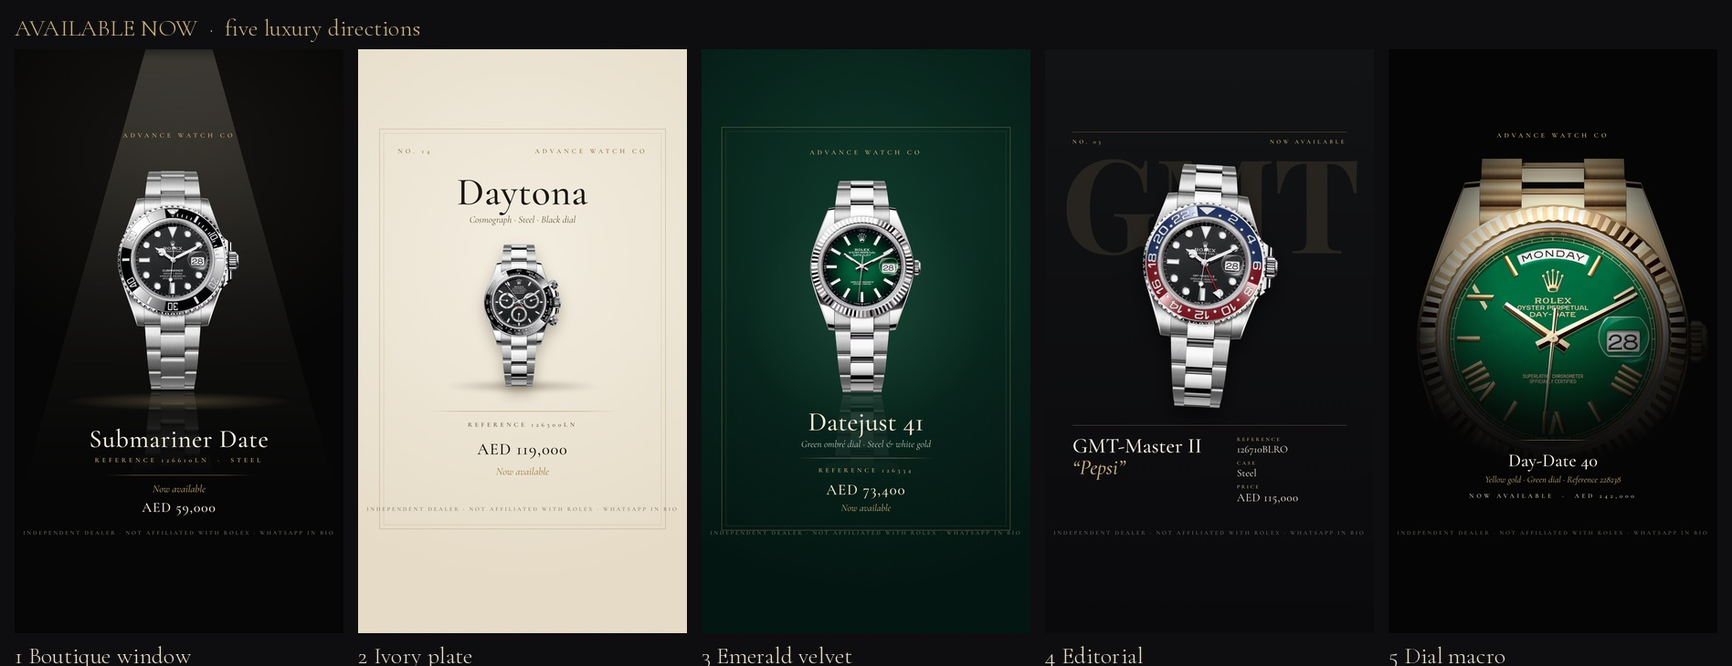
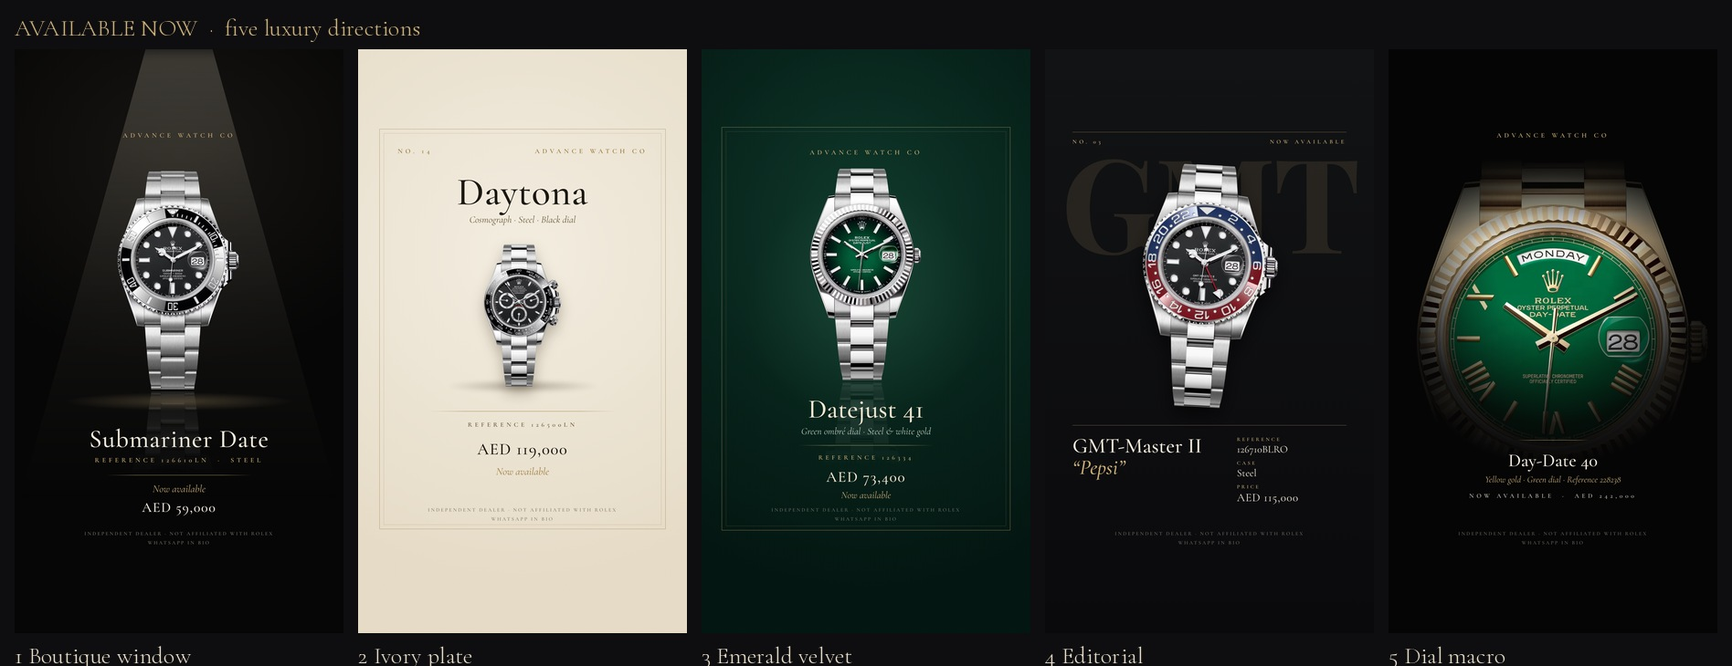
Luxury story designs round 2: 5 available now, 4 knowledge
Claude-Session: https://claude.ai/code/session_0196sG434LsFacRR9je27wED

Changed region(s): [[0.4668, 0.2411, 0.529, 0.7836], [0.8402, 0.2411, 0.9647, 0.3616], [0.2801, 0.7534, 0.3112, 0.7836]]

diff --git a/stories/new-style-luxury/templates/available_3_emerald_velvet.html b/stories/new-style-luxury/templates/available_3_emerald_velvet.html
@@ -10,19 +10,19 @@ html,body{width:1080px;height:1920px;overflow:hidden;background:#000}
 .cap{font-family:'Corm',serif;text-transform:uppercase;letter-spacing:.42em;font-weight:600;font-size:22px}
 .gold{color:#cdb07a}.ink{color:#1c1812}
 .rule{position:absolute;height:1px;background:linear-gradient(90deg,transparent,#cdb07a 20%,#cdb07a 80%,transparent)}
-.tiny{position:absolute;left:0;right:0;text-align:center;font-size:19px;letter-spacing:.3em;text-transform:uppercase;font-weight:600}
+.tiny{position:absolute;left:0;right:0;text-align:center;font-size:17px;line-height:1.75;letter-spacing:.24em;text-transform:uppercase;font-weight:600}
 </style></head><body><div id='s' style="background:radial-gradient(1100px 1200px at 50% 30%,#0f3a2c,#06231a 55%,#031510)">
 <div class='a' style='inset:0;background:repeating-linear-gradient(90deg,rgba(255,255,255,.012) 0 2px,transparent 2px 5px)'></div>
 <div class='a' style='left:66px;right:66px;top:256px;bottom:338px;border:1px solid rgba(205,176,122,.75)'></div>
 <div class='a' style='left:80px;right:80px;top:270px;bottom:352px;border:1px solid rgba(205,176,122,.28)'></div>
 <div class='a c cap gold' style='top:326px'>Advance Watch Co</div>
-<div class='a' style='left:50%;top:430px;width:900px;height:900px;transform:translateX(-50%);background:radial-gradient(circle,rgba(70,150,110,.20),transparent 62%)'></div>
-<img class='a' src='../assets/dj.png' style='left:50%;top:430px;height:700px;transform:translateX(-50%);
+<div class='a' style='left:50%;top:390px;width:900px;height:900px;transform:translateX(-50%);background:radial-gradient(circle,rgba(70,150,110,.20),transparent 62%)'></div>
+<img class='a' src='../assets/dj.png' style='left:50%;top:390px;height:700px;transform:translateX(-50%);
  -webkit-box-reflect:below 4px linear-gradient(transparent 60%,rgba(255,255,255,.18))'>
-<div class='a c' style='top:1172px;font-size:88px;font-weight:500;color:#efe6d2'>Datejust 41</div>
-<div class='a c' style='top:1278px;font-size:32px;font-style:italic;color:#bcd0c2'>Green ombré dial · Steel &amp; white gold</div>
-<div class='rule' style='left:320px;width:440px;top:1344px'></div>
-<div class='a c cap gold' style='top:1372px;font-size:21px'>Reference 126334</div>
-<div class='a c' style='top:1418px;font-size:50px;font-weight:500;color:#efe6d2;letter-spacing:.06em'>AED 73,400</div>
-<div class='a c' style='top:1488px;font-size:32px;font-style:italic;color:#cdb07a'>Now available</div>
-<div class='tiny' style='top:1578px;color:rgba(239,230,210,.4)'>Independent dealer · Not affiliated with Rolex · WhatsApp in bio</div><div class='grain'></div></div></body></html>
+<div class='a c' style='top:1130px;font-size:88px;font-weight:500;color:#efe6d2'>Datejust 41</div>
+<div class='a c' style='top:1236px;font-size:32px;font-style:italic;color:#bcd0c2'>Green ombré dial · Steel &amp; white gold</div>
+<div class='rule' style='left:320px;width:440px;top:1302px'></div>
+<div class='a c cap gold' style='top:1330px;font-size:21px'>Reference 126334</div>
+<div class='a c' style='top:1376px;font-size:50px;font-weight:500;color:#efe6d2;letter-spacing:.06em'>AED 73,400</div>
+<div class='a c' style='top:1446px;font-size:32px;font-style:italic;color:#cdb07a'>Now available</div>
+<div class='tiny' style='top:1500px;color:rgba(239,230,210,.4)'>Independent dealer · Not affiliated with Rolex<br>WhatsApp in bio</div><div class='grain'></div></div></body></html>

diff --git a/stories/new-style-luxury/templates/knowledge_3_five_years.html b/stories/new-style-luxury/templates/knowledge_3_five_years.html
@@ -10,11 +10,11 @@ html,body{width:1080px;height:1920px;overflow:hidden;background:#000}
 .cap{font-family:'Corm',serif;text-transform:uppercase;letter-spacing:.42em;font-weight:600;font-size:22px}
 .gold{color:#cdb07a}.ink{color:#1c1812}
 .rule{position:absolute;height:1px;background:linear-gradient(90deg,transparent,#cdb07a 20%,#cdb07a 80%,transparent)}
-.tiny{position:absolute;left:0;right:0;text-align:center;font-size:19px;letter-spacing:.3em;text-transform:uppercase;font-weight:600}
+.tiny{position:absolute;left:0;right:0;text-align:center;font-size:17px;line-height:1.75;letter-spacing:.24em;text-transform:uppercase;font-weight:600}
 </style></head><body><div id='s' style="background:radial-gradient(1000px 1000px at 50% 36%,#1b1913,#08080a 72%)">
 <div class='a c cap gold' style='top:300px'>The Rolex guarantee</div>
-<div class='a c' style='top:360px;font-size:760px;line-height:1;font-weight:300;font-family:Corm,serif;color:transparent;-webkit-text-stroke:2.5px #cdb07a;letter-spacing:-.02em'>5</div>
-<div class='a c' style='top:1130px;font-size:76px;font-weight:500;color:#f2eadb;letter-spacing:.34em'>YEARS</div>
-<div class='rule' style='left:420px;width:240px;top:1240px'></div>
-<div class='a' style='left:150px;right:150px;top:1280px;text-align:center;font-size:36px;line-height:1.35;color:rgba(242,234,219,.82)'>It begins on the date printed on the card, the date of the sale. A recent date means most of it is still ahead of you. <span style='font-style:italic;color:#cdb07a'>Check it before you pay.</span></div>
-<div class='tiny' style='top:1578px;color:rgba(242,234,219,.4)'>Independent dealer · Not affiliated with Rolex · WhatsApp in bio</div><div class='grain'></div></div></body></html>
+<div class='a c' style='top:330px;font-size:690px;line-height:1;font-weight:300;font-family:Corm,serif;color:transparent;-webkit-text-stroke:2.5px #cdb07a;letter-spacing:-.02em'>5</div>
+<div class='a c' style='top:1150px;font-size:76px;font-weight:500;color:#f2eadb;letter-spacing:.34em'>YEARS</div>
+<div class='rule' style='left:420px;width:240px;top:1260px'></div>
+<div class='a' style='left:150px;right:150px;top:1300px;text-align:center;font-size:36px;line-height:1.35;color:rgba(242,234,219,.82)'>It begins on the date printed on the card, the date of the sale. A recent date means most of it is still ahead of you. <span style='font-style:italic;color:#cdb07a'>Check it before you pay.</span></div>
+<div class='tiny' style='top:1578px;color:rgba(242,234,219,.4)'>Independent dealer · Not affiliated with Rolex<br>WhatsApp in bio</div><div class='grain'></div></div></body></html>

diff --git a/stories/new-style-luxury/templates/available_4_editorial.html b/stories/new-style-luxury/templates/available_4_editorial.html
@@ -10,7 +10,7 @@ html,body{width:1080px;height:1920px;overflow:hidden;background:#000}
 .cap{font-family:'Corm',serif;text-transform:uppercase;letter-spacing:.42em;font-weight:600;font-size:22px}
 .gold{color:#cdb07a}.ink{color:#1c1812}
 .rule{position:absolute;height:1px;background:linear-gradient(90deg,transparent,#cdb07a 20%,#cdb07a 80%,transparent)}
-.tiny{position:absolute;left:0;right:0;text-align:center;font-size:19px;letter-spacing:.3em;text-transform:uppercase;font-weight:600}
+.tiny{position:absolute;left:0;right:0;text-align:center;font-size:17px;line-height:1.75;letter-spacing:.24em;text-transform:uppercase;font-weight:600}
 </style></head><body><div id='s' style="background:linear-gradient(180deg,#121315,#0a0a0c)">
 <div class='a' style='left:0;right:0;top:300px;text-align:center;font-family:Play,serif;font-size:430px;font-weight:700;line-height:.9;color:rgba(205,176,122,.13);letter-spacing:-.02em'>GMT</div>
 <div class='a' style='left:0;right:0;top:640px;text-align:center;font-family:Play,serif;font-size:300px;font-weight:700;line-height:.9;color:rgba(205,176,122,.08);letter-spacing:.02em'>II</div>
@@ -24,4 +24,4 @@ html,body{width:1080px;height:1920px;overflow:hidden;background:#000}
  <div class='cap gold' style='font-size:17px;letter-spacing:.34em'>Reference</div><div style='font-size:34px;color:#f2eadb;margin:2px 0 14px'>126710BLRO</div>
  <div class='cap gold' style='font-size:17px;letter-spacing:.34em'>Case</div><div style='font-size:34px;color:#f2eadb;margin:2px 0 14px'>Steel</div>
  <div class='cap gold' style='font-size:17px;letter-spacing:.34em'>Price</div><div style='font-size:38px;color:#f2eadb;margin-top:2px;letter-spacing:.04em'>AED 115,000</div></div>
-<div class='tiny' style='top:1578px;color:rgba(242,234,219,.4)'>Independent dealer · Not affiliated with Rolex · WhatsApp in bio</div><div class='grain'></div></div></body></html>
+<div class='tiny' style='top:1578px;color:rgba(242,234,219,.4)'>Independent dealer · Not affiliated with Rolex<br>WhatsApp in bio</div><div class='grain'></div></div></body></html>

diff --git a/stories/new-style-luxury/templates/knowledge_2_three_checks.html b/stories/new-style-luxury/templates/knowledge_2_three_checks.html
@@ -10,7 +10,7 @@ html,body{width:1080px;height:1920px;overflow:hidden;background:#000}
 .cap{font-family:'Corm',serif;text-transform:uppercase;letter-spacing:.42em;font-weight:600;font-size:22px}
 .gold{color:#cdb07a}.ink{color:#1c1812}
 .rule{position:absolute;height:1px;background:linear-gradient(90deg,transparent,#cdb07a 20%,#cdb07a 80%,transparent)}
-.tiny{position:absolute;left:0;right:0;text-align:center;font-size:19px;letter-spacing:.3em;text-transform:uppercase;font-weight:600}
+.tiny{position:absolute;left:0;right:0;text-align:center;font-size:17px;line-height:1.75;letter-spacing:.24em;text-transform:uppercase;font-weight:600}
 </style></head><body><div id='s' style="background:linear-gradient(180deg,#0f1012,#070708)"><div class='a c cap gold' style='top:300px'>Three checks before you pay</div>
 <div class='a c' style='top:372px;font-size:84px;font-weight:500;color:#f2eadb'>For any Rolex</div>
 <div class='rule' style='left:110px;right:110px;top:500px'></div><div class='a' style='left:110px;top:560px;width:120px;font-size:104px;font-weight:300;color:#cdb07a;font-family:Corm,serif;line-height:1'>I</div>
@@ -21,4 +21,4 @@ html,body{width:1080px;height:1920px;overflow:hidden;background:#000}
 <div class='a' style='left:270px;right:100px;top:1118px;font-size:46px;font-weight:500;color:#f2eadb;line-height:1.1'>A recent warranty date</div>
 <div class='a' style='left:270px;right:110px;top:1222px;font-size:30px;font-style:italic;color:rgba(242,234,219,.7);line-height:1.25'>a brand new watch should carry a recent one</div>
 <div class='a c' style='top:1430px;font-size:32px;font-style:italic;color:#cdb07a'>Save this for the day you buy.</div>
-<div class='tiny' style='top:1578px;color:rgba(242,234,219,.4)'>Advance Watch Co · WhatsApp in bio</div><div class='grain'></div></div></body></html>
+<div class='tiny' style='top:1578px;color:rgba(242,234,219,.4)'>Advance Watch Co<br>WhatsApp in bio</div><div class='grain'></div></div></body></html>

diff --git a/stories/new-style-luxury/templates/available_5_dial_macro.html b/stories/new-style-luxury/templates/available_5_dial_macro.html
@@ -10,13 +10,14 @@ html,body{width:1080px;height:1920px;overflow:hidden;background:#000}
 .cap{font-family:'Corm',serif;text-transform:uppercase;letter-spacing:.42em;font-weight:600;font-size:22px}
 .gold{color:#cdb07a}.ink{color:#1c1812}
 .rule{position:absolute;height:1px;background:linear-gradient(90deg,transparent,#cdb07a 20%,#cdb07a 80%,transparent)}
-.tiny{position:absolute;left:0;right:0;text-align:center;font-size:19px;letter-spacing:.3em;text-transform:uppercase;font-weight:600}
+.tiny{position:absolute;left:0;right:0;text-align:center;font-size:17px;line-height:1.75;letter-spacing:.24em;text-transform:uppercase;font-weight:600}
 </style></head><body><div id='s' style="background:#050505">
 <img class='a' src='../assets/dial_macro.png' style='left:50%;top:360px;width:1180px;transform:translateX(-50%)'>
 <div class='a' style='inset:0;background:radial-gradient(ellipse 620px 640px at 50% 38%,transparent 30%,rgba(5,5,5,.88) 78%,#050505 100%)'></div>
+<div class='a' style='left:0;right:0;top:330px;height:300px;background:linear-gradient(180deg,#050505 10%,rgba(5,5,5,.0))'></div>
 <div class='a c cap gold' style='top:270px'>Advance Watch Co</div>
 <div class='rule' style='left:420px;width:240px;top:1285px'></div>
 <div class='a c' style='top:1316px;font-size:60px;font-weight:500;color:#f2eadb'>Day-Date 40</div>
 <div class='a c' style='top:1396px;font-size:30px;font-style:italic;color:#cdb07a'>Yellow gold · Green dial · Reference 228238</div>
 <div class='a c cap' style='top:1456px;color:rgba(242,234,219,.8);font-size:21px'>Now available &nbsp;·&nbsp; AED 242,000</div>
-<div class='tiny' style='top:1578px;color:rgba(242,234,219,.4)'>Independent dealer · Not affiliated with Rolex · WhatsApp in bio</div><div class='grain'></div></div></body></html>
+<div class='tiny' style='top:1578px;color:rgba(242,234,219,.4)'>Independent dealer · Not affiliated with Rolex<br>WhatsApp in bio</div><div class='grain'></div></div></body></html>

diff --git a/stories/new-style-luxury/templates/knowledge_4_question_answer.html b/stories/new-style-luxury/templates/knowledge_4_question_answer.html
@@ -10,7 +10,7 @@ html,body{width:1080px;height:1920px;overflow:hidden;background:#000}
 .cap{font-family:'Corm',serif;text-transform:uppercase;letter-spacing:.42em;font-weight:600;font-size:22px}
 .gold{color:#cdb07a}.ink{color:#1c1812}
 .rule{position:absolute;height:1px;background:linear-gradient(90deg,transparent,#cdb07a 20%,#cdb07a 80%,transparent)}
-.tiny{position:absolute;left:0;right:0;text-align:center;font-size:19px;letter-spacing:.3em;text-transform:uppercase;font-weight:600}
+.tiny{position:absolute;left:0;right:0;text-align:center;font-size:17px;line-height:1.75;letter-spacing:.24em;text-transform:uppercase;font-weight:600}
 </style></head><body><div id='s' style="background:radial-gradient(1100px 1100px at 50% 35%,#f4eee2,#e6dcc8)">
 <div class='a' style='left:70px;right:70px;top:262px;bottom:342px;border:1px solid rgba(156,122,60,.6)'></div>
 <div class='a c cap' style='top:330px;color:#9c7a3c'>Ask us anything</div>
@@ -19,4 +19,4 @@ html,body{width:1080px;height:1920px;overflow:hidden;background:#000}
 <div class='rule' style='left:420px;width:240px;top:930px;background:linear-gradient(90deg,transparent,#9c7a3c 20%,#9c7a3c 80%,transparent)'></div>
 <div class='a c' style='top:980px;font-size:44px;font-style:italic;color:#9c7a3c'>The answer</div>
 <div class='a' style='left:150px;right:150px;top:1050px;text-align:center;font-size:37px;line-height:1.38;color:#3a3226'>Demand is much bigger than supply. Boutiques keep waiting lists, and in our experience clients with a purchase history are offered the watches first. A dealer can often source the watch in one to forty-eight hours, depending on the model.</div>
-<div class='tiny' style='top:1500px;color:rgba(28,24,18,.45)'>Advance Watch Co · WhatsApp in bio</div><div class='grain'></div></div></body></html>
+<div class='tiny' style='top:1500px;color:rgba(28,24,18,.45)'>Advance Watch Co<br>WhatsApp in bio</div><div class='grain'></div></div></body></html>

diff --git a/stories/new-style-luxury/templates/knowledge_1_collectors_note.html b/stories/new-style-luxury/templates/knowledge_1_collectors_note.html
@@ -10,7 +10,7 @@ html,body{width:1080px;height:1920px;overflow:hidden;background:#000}
 .cap{font-family:'Corm',serif;text-transform:uppercase;letter-spacing:.42em;font-weight:600;font-size:22px}
 .gold{color:#cdb07a}.ink{color:#1c1812}
 .rule{position:absolute;height:1px;background:linear-gradient(90deg,transparent,#cdb07a 20%,#cdb07a 80%,transparent)}
-.tiny{position:absolute;left:0;right:0;text-align:center;font-size:19px;letter-spacing:.3em;text-transform:uppercase;font-weight:600}
+.tiny{position:absolute;left:0;right:0;text-align:center;font-size:17px;line-height:1.75;letter-spacing:.24em;text-transform:uppercase;font-weight:600}
 </style></head><body><div id='s' style="background:radial-gradient(1000px 900px at 50% 30%,#1a1814,#08080a 75%)">
 <div class='a c cap gold' style='top:300px'>A note from the counter</div>
 <div class='a c' style='top:420px;font-size:200px;line-height:.6;color:#cdb07a;font-family:Play,serif'>“</div>
@@ -18,4 +18,4 @@ html,body{width:1080px;height:1920px;overflow:hidden;background:#000}
 <div class='rule' style='left:420px;width:240px;top:1010px'></div>
 <div class='a' style='left:150px;right:150px;top:1060px;text-align:center;font-size:36px;line-height:1.35;color:rgba(242,234,219,.82)'>The better fakes sweep too. Check the Cyclops, which should magnify the date two and a half times, the tiny crown etched on the crystal at six o’clock, and the weight of the watch.</div>
 <div class='a c cap gold' style='top:1420px;font-size:19px'>Advance Watch Co</div>
-<div class='tiny' style='top:1578px;color:rgba(242,234,219,.4)'>Advance Watch Co · WhatsApp in bio</div><div class='grain'></div></div></body></html>
+<div class='tiny' style='top:1578px;color:rgba(242,234,219,.4)'>Advance Watch Co<br>WhatsApp in bio</div><div class='grain'></div></div></body></html>

diff --git a/stories/new-style-luxury/templates/available_2_ivory_plate.html b/stories/new-style-luxury/templates/available_2_ivory_plate.html
@@ -10,7 +10,7 @@ html,body{width:1080px;height:1920px;overflow:hidden;background:#000}
 .cap{font-family:'Corm',serif;text-transform:uppercase;letter-spacing:.42em;font-weight:600;font-size:22px}
 .gold{color:#cdb07a}.ink{color:#1c1812}
 .rule{position:absolute;height:1px;background:linear-gradient(90deg,transparent,#cdb07a 20%,#cdb07a 80%,transparent)}
-.tiny{position:absolute;left:0;right:0;text-align:center;font-size:19px;letter-spacing:.3em;text-transform:uppercase;font-weight:600}
+.tiny{position:absolute;left:0;right:0;text-align:center;font-size:17px;line-height:1.75;letter-spacing:.24em;text-transform:uppercase;font-weight:600}
 </style></head><body><div id='s' style="background:radial-gradient(1100px 1100px at 50% 35%,#f4eee2,#e6dcc8)">
 <div class='a' style='left:70px;right:70px;top:262px;bottom:342px;border:1px solid rgba(156,122,60,.7)'></div>
 <div class='a' style='left:84px;right:84px;top:276px;bottom:356px;border:1px solid rgba(156,122,60,.35)'></div>
@@ -24,4 +24,4 @@ html,body{width:1080px;height:1920px;overflow:hidden;background:#000}
 <div class='a c cap' style='top:1222px;color:#6b5a3a;font-size:21px'>Reference 126500LN</div>
 <div class='a c ink' style='top:1282px;font-size:54px;font-weight:500;letter-spacing:.05em'>AED 119,000</div>
 <div class='a c' style='top:1368px;font-size:34px;font-style:italic;color:#9c7a3c'>Now available</div>
-<div class='tiny' style='top:1500px;color:rgba(28,24,18,.45)'>Independent dealer · Not affiliated with Rolex · WhatsApp in bio</div><div class='grain'></div></div></body></html>
+<div class='tiny' style='top:1500px;color:rgba(28,24,18,.45)'>Independent dealer · Not affiliated with Rolex<br>WhatsApp in bio</div><div class='grain'></div></div></body></html>

diff --git a/stories/new-style-luxury/templates/available_1_boutique_window.html b/stories/new-style-luxury/templates/available_1_boutique_window.html
@@ -10,7 +10,7 @@ html,body{width:1080px;height:1920px;overflow:hidden;background:#000}
 .cap{font-family:'Corm',serif;text-transform:uppercase;letter-spacing:.42em;font-weight:600;font-size:22px}
 .gold{color:#cdb07a}.ink{color:#1c1812}
 .rule{position:absolute;height:1px;background:linear-gradient(90deg,transparent,#cdb07a 20%,#cdb07a 80%,transparent)}
-.tiny{position:absolute;left:0;right:0;text-align:center;font-size:19px;letter-spacing:.3em;text-transform:uppercase;font-weight:600}
+.tiny{position:absolute;left:0;right:0;text-align:center;font-size:17px;line-height:1.75;letter-spacing:.24em;text-transform:uppercase;font-weight:600}
 </style></head><body><div id='s' style="background:radial-gradient(1200px 1000px at 50% 18%,#171512,#060606 70%)">
 <div class='a' style='left:50%;top:0;width:1100px;height:1500px;transform:translateX(-50%);
  background:linear-gradient(180deg,rgba(255,244,220,.20),rgba(255,244,220,.05) 55%,transparent);
@@ -24,4 +24,4 @@ html,body{width:1080px;height:1920px;overflow:hidden;background:#000}
 <div class='rule' style='left:300px;width:480px;top:1400px'></div>
 <div class='a c' style='top:1425px;font-size:34px;font-style:italic;color:#cdb07a'>Now available</div>
 <div class='a c' style='top:1478px;font-size:46px;font-weight:500;color:#f2eadb;letter-spacing:.06em'>AED 59,000</div>
-<div class='tiny' style='top:1578px;color:rgba(242,234,219,.45)'>Independent dealer · Not affiliated with Rolex · WhatsApp in bio</div><div class='grain'></div></div></body></html>
+<div class='tiny' style='top:1578px;color:rgba(242,234,219,.45)'>Independent dealer · Not affiliated with Rolex<br>WhatsApp in bio</div><div class='grain'></div></div></body></html>

diff --git a/stories/new-style-luxury/build_luxury.py b/stories/new-style-luxury/build_luxury.py
@@ -27,12 +27,12 @@ html,body{width:1080px;height:1920px;overflow:hidden;background:#000}
 .cap{font-family:'Corm',serif;text-transform:uppercase;letter-spacing:.42em;font-weight:600;font-size:22px}
 .gold{color:#cdb07a}.ink{color:#1c1812}
 .rule{position:absolute;height:1px;background:linear-gradient(90deg,transparent,#cdb07a 20%,#cdb07a 80%,transparent)}
-.tiny{position:absolute;left:0;right:0;text-align:center;font-size:19px;letter-spacing:.3em;text-transform:uppercase;font-weight:600}
+.tiny{position:absolute;left:0;right:0;text-align:center;font-size:17px;line-height:1.75;letter-spacing:.24em;text-transform:uppercase;font-weight:600}
 """.replace("__NOISE__", NOISE)
 
-DISC_R = "Independent dealer · Not affiliated with Rolex · WhatsApp in bio"
-DISC_P = "Independent dealer · Not affiliated with Patek Philippe · WhatsApp in bio"
-DISC_K = "Advance Watch Co · WhatsApp in bio"
+DISC_R = "Independent dealer · Not affiliated with Rolex<br>WhatsApp in bio"
+DISC_P = "Independent dealer · Not affiliated with Patek Philippe<br>WhatsApp in bio"
+DISC_K = "Advance Watch Co<br>WhatsApp in bio"
 
 
 def page(name, bg, body):
@@ -85,16 +85,16 @@ def av3_emerald():  # Datejust 41 green ombre 126334
 <div class='a' style='left:66px;right:66px;top:256px;bottom:338px;border:1px solid rgba(205,176,122,.75)'></div>
 <div class='a' style='left:80px;right:80px;top:270px;bottom:352px;border:1px solid rgba(205,176,122,.28)'></div>
 <div class='a c cap gold' style='top:326px'>Advance Watch Co</div>
-<div class='a' style='left:50%;top:430px;width:900px;height:900px;transform:translateX(-50%);background:radial-gradient(circle,rgba(70,150,110,.20),transparent 62%)'></div>
-<img class='a' src='../assets/dj.png' style='left:50%;top:430px;height:700px;transform:translateX(-50%);
+<div class='a' style='left:50%;top:390px;width:900px;height:900px;transform:translateX(-50%);background:radial-gradient(circle,rgba(70,150,110,.20),transparent 62%)'></div>
+<img class='a' src='../assets/dj.png' style='left:50%;top:390px;height:700px;transform:translateX(-50%);
  -webkit-box-reflect:below 4px linear-gradient(transparent 60%,rgba(255,255,255,.18))'>
-<div class='a c' style='top:1172px;font-size:88px;font-weight:500;color:#efe6d2'>Datejust 41</div>
-<div class='a c' style='top:1278px;font-size:32px;font-style:italic;color:#bcd0c2'>Green ombré dial · Steel &amp; white gold</div>
-<div class='rule' style='left:320px;width:440px;top:1344px'></div>
-<div class='a c cap gold' style='top:1372px;font-size:21px'>Reference 126334</div>
-<div class='a c' style='top:1418px;font-size:50px;font-weight:500;color:#efe6d2;letter-spacing:.06em'>AED 73,400</div>
-<div class='a c' style='top:1488px;font-size:32px;font-style:italic;color:#cdb07a'>Now available</div>
-<div class='tiny' style='top:1578px;color:rgba(239,230,210,.4)'>__D__</div>""".replace("__D__", DISC_R)
+<div class='a c' style='top:1130px;font-size:88px;font-weight:500;color:#efe6d2'>Datejust 41</div>
+<div class='a c' style='top:1236px;font-size:32px;font-style:italic;color:#bcd0c2'>Green ombré dial · Steel &amp; white gold</div>
+<div class='rule' style='left:320px;width:440px;top:1302px'></div>
+<div class='a c cap gold' style='top:1330px;font-size:21px'>Reference 126334</div>
+<div class='a c' style='top:1376px;font-size:50px;font-weight:500;color:#efe6d2;letter-spacing:.06em'>AED 73,400</div>
+<div class='a c' style='top:1446px;font-size:32px;font-style:italic;color:#cdb07a'>Now available</div>
+<div class='tiny' style='top:1500px;color:rgba(239,230,210,.4)'>__D__</div>""".replace("__D__", DISC_R)
     return page("available_3_emerald_velvet", "background:radial-gradient(1100px 1200px at 50% 30%,#0f3a2c,#06231a 55%,#031510)", body)
 
 
@@ -120,6 +120,7 @@ def av5_macro():  # Day-Date 40 228238 dial macro
     body = """
 <img class='a' src='../assets/dial_macro.png' style='left:50%;top:360px;width:1180px;transform:translateX(-50%)'>
 <div class='a' style='inset:0;background:radial-gradient(ellipse 620px 640px at 50% 38%,transparent 30%,rgba(5,5,5,.88) 78%,#050505 100%)'></div>
+<div class='a' style='left:0;right:0;top:330px;height:300px;background:linear-gradient(180deg,#050505 10%,rgba(5,5,5,.0))'></div>
 <div class='a c cap gold' style='top:270px'>Advance Watch Co</div>
 <div class='rule' style='left:420px;width:240px;top:1285px'></div>
 <div class='a c' style='top:1316px;font-size:60px;font-weight:500;color:#f2eadb'>Day-Date 40</div>
@@ -166,10 +167,10 @@ def k2_checks():
 def k3_five():
     body = """
 <div class='a c cap gold' style='top:300px'>The Rolex guarantee</div>
-<div class='a c' style='top:360px;font-size:760px;line-height:1;font-weight:300;font-family:Corm,serif;color:transparent;-webkit-text-stroke:2.5px #cdb07a;letter-spacing:-.02em'>5</div>
-<div class='a c' style='top:1130px;font-size:76px;font-weight:500;color:#f2eadb;letter-spacing:.34em'>YEARS</div>
-<div class='rule' style='left:420px;width:240px;top:1240px'></div>
-<div class='a' style='left:150px;right:150px;top:1280px;text-align:center;font-size:36px;line-height:1.35;color:rgba(242,234,219,.82)'>It begins on the date printed on the card, the date of the sale. A recent date means most of it is still ahead of you. <span style='font-style:italic;color:#cdb07a'>Check it before you pay.</span></div>
+<div class='a c' style='top:330px;font-size:690px;line-height:1;font-weight:300;font-family:Corm,serif;color:transparent;-webkit-text-stroke:2.5px #cdb07a;letter-spacing:-.02em'>5</div>
+<div class='a c' style='top:1150px;font-size:76px;font-weight:500;color:#f2eadb;letter-spacing:.34em'>YEARS</div>
+<div class='rule' style='left:420px;width:240px;top:1260px'></div>
+<div class='a' style='left:150px;right:150px;top:1300px;text-align:center;font-size:36px;line-height:1.35;color:rgba(242,234,219,.82)'>It begins on the date printed on the card, the date of the sale. A recent date means most of it is still ahead of you. <span style='font-style:italic;color:#cdb07a'>Check it before you pay.</span></div>
 <div class='tiny' style='top:1578px;color:rgba(242,234,219,.4)'>__D__</div>""".replace("__D__", DISC_R)
     return page("knowledge_3_five_years", "background:radial-gradient(1000px 1000px at 50% 36%,#1b1913,#08080a 72%)", body)
 

diff --git a/stories/new-style-luxury/README.md b/stories/new-style-luxury/README.md
@@ -1,0 +1,9 @@
+# Luxury story designs, round 2 (previews only, nothing posted)
+Replaces the playful round 1 (stories/new-style). 1080x1920, key content inside y 250 to 1580.
+
+AVAILABLE NOW: 1 Boutique window (Submariner Date 126610LN), 2 Ivory plate (Daytona 126500LN), 3 Emerald velvet (Datejust 41 126334),
+4 Editorial (GMT-Master II Pepsi 126710BLRO), 5 Dial macro (Day-Date 40 228238). Prices exactly as in stories/new-style/pool.json (AED).
+Patek would show "Price on request" only (none used in this round). Tiny line: Independent dealer, not affiliated, WhatsApp in bio. No phone numbers.
+KNOWLEDGE: 1 The collector's note, 2 Three checks, 3 One numeral (5 years), 4 Question and answer. Facts only from reels/scripts/script-bank.md.
+
+Rebuild: NODE_PATH=/opt/node22/lib/node_modules python3 build_luxury.py (fonts: Cormorant Garamond and Playfair Display, SIL OFL, in fonts/).
